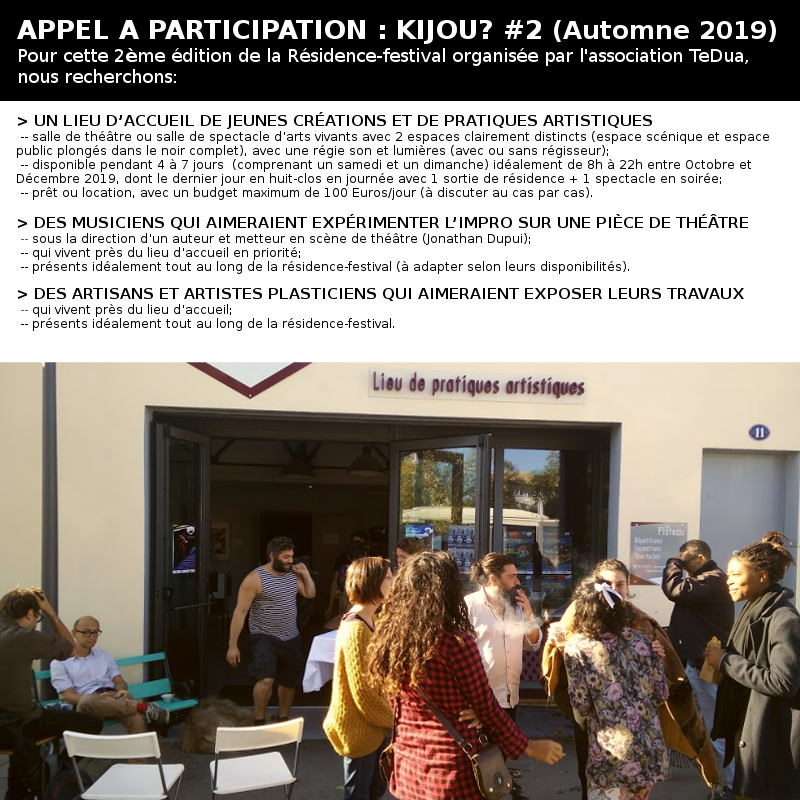
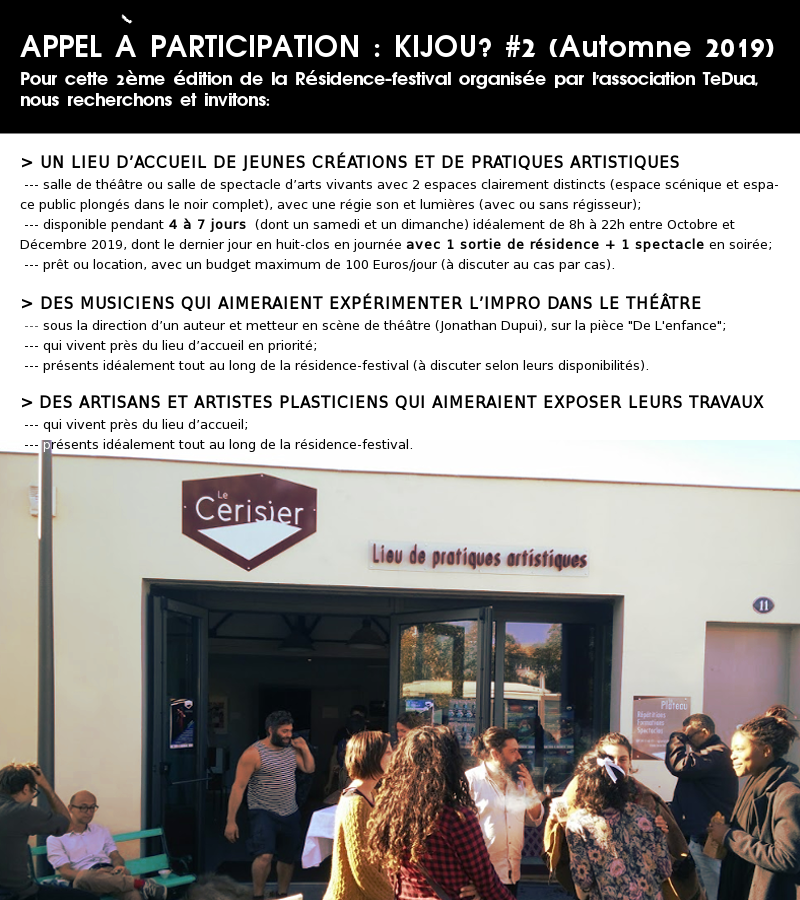
changement image kijou 2

diff --git a/content/accueil/kijou.md b/content/accueil/kijou.md
@@ -5,9 +5,9 @@
 ### 1. APPEL & INVITATIONS POUR KIJOU? #2 (*Automne 2019*)
 
 
-<center> <img src="/img/kijou2-appel.png" alt="what image shows" height="580" width="580"> </center>
+<center> <img src="/img/kijou2-appel.png" alt="kijou? 1" height="710" width="630"> </center>
 
-<p style="text-align:center;">"On va vers là où est le jeu, parce que c'est là que ça va." - Jo</p>
+<p style="text-align:center;">"On va vers là où va le jeu, parce que c'est là que ça va." - Jo</p>
 
 -----
 
